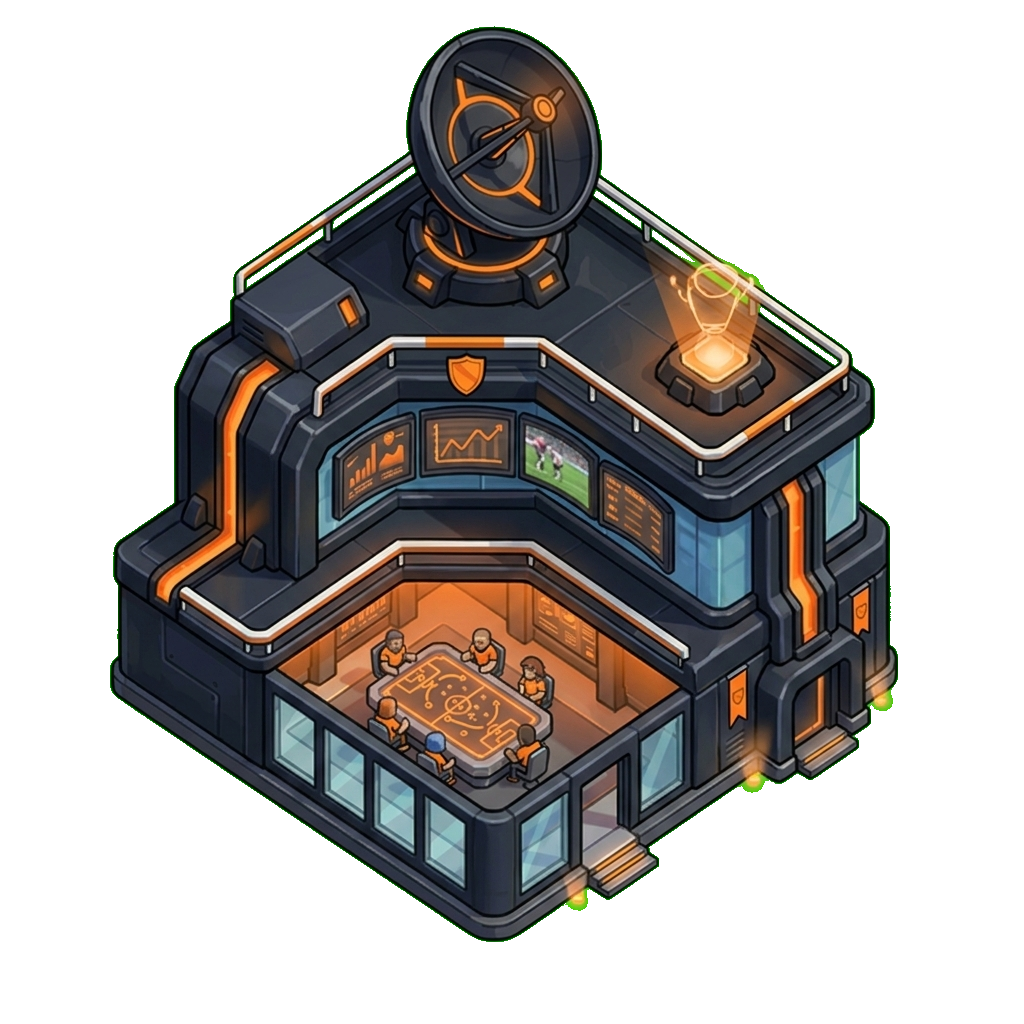
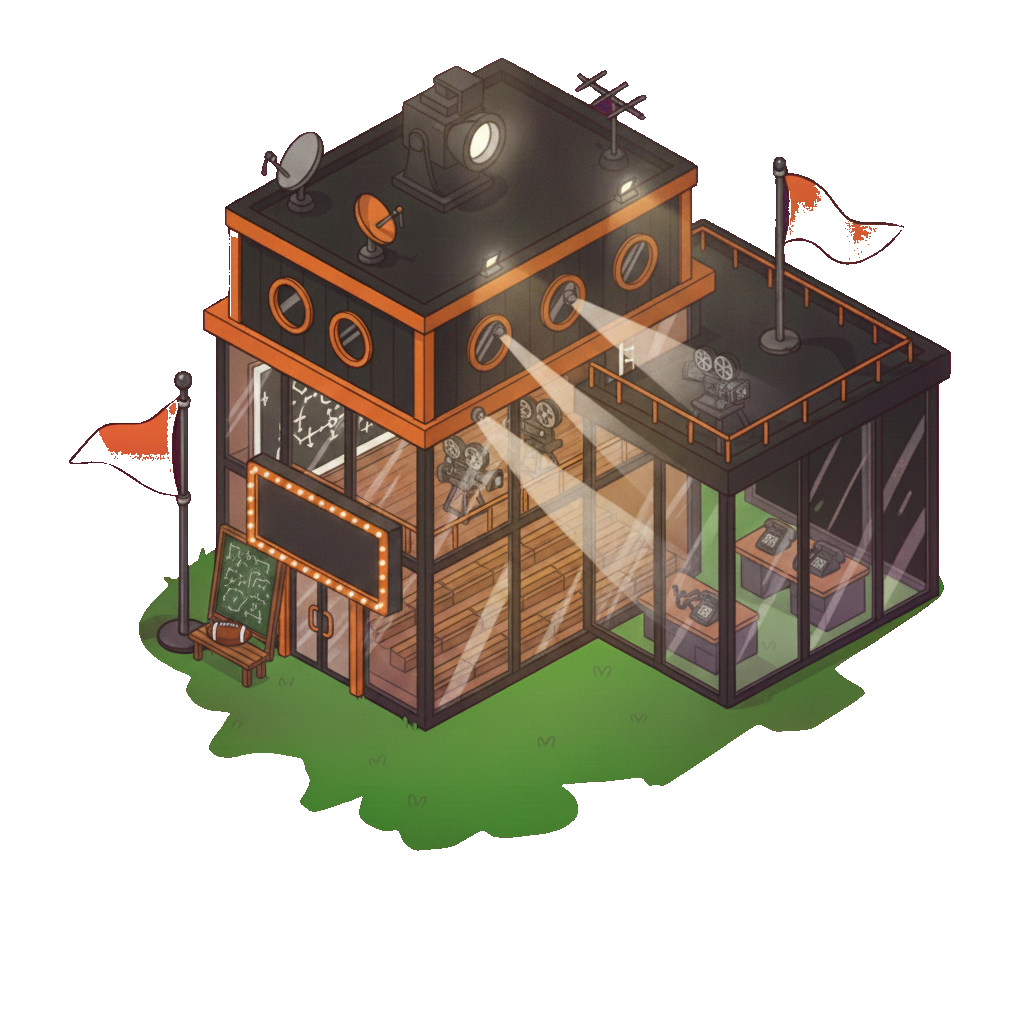
feat: FILM ROOM (renamed from War Room) — 3-tier chalk-talk-to-theater story
Asset refresh #3 + rename (Jumaane's call — 'I don't love war room'):
BUILDING_INFO name → 'Film Room', description now leads with breaking down
film. The art tells one story:
  T1 chalk talk: chalkboard on sawhorses under a lean-to, X's-and-O's play
     diagrams, bench + football, one film reel already waiting
  T3 the film room: cutaway screening room — projector beam on the play
     screen, reel shelf, blank-bulb marquee, the T1 chalkboard mounted on
     the outside wall
  T5 breakdown theater: multi-story cinema, crossing projector beams, film
     gear on two floors, rooftop projector lamp — the chalkboard framed by
     the doors like a founder's relic
Persistent motifs: the chalkboard, film reels, the projector beam, the
bench + football, orange pennants. T5 needed a massing break (chained refs
kept cloning T3's box) — borrowed the scouting HQ's 3-story structure as
the size reference and converted its purpose.

diff --git a/constants.ts b/constants.ts
@@ -138,7 +138,7 @@ export const INITIAL_BUILDINGS: BuildingInstance[] = [
 export const BUILDING_INFO = {
   [BuildingType.TRAINING_PITCH]: { name: 'Training Field', color: '#10b981', description: 'Increases XP gained from drills.' },
   [BuildingType.YOUTH_ACADEMY]: { name: 'Scouting Dept', color: '#3b82f6', description: 'Raises your roster cap so you can sign more players.' },
-  [BuildingType.TACTICS_ROOM]: { name: 'War Room', color: '#9333ea', description: 'Sharper game plan — boosts team readiness gained from drills.' },
+  [BuildingType.TACTICS_ROOM]: { name: 'Film Room', color: '#9333ea', description: 'Break down the film, sharpen the game plan — boosts team readiness gained from drills.' },
   [BuildingType.MEDICAL_CENTER]: { name: 'Rehab Center', color: '#ef4444', description: 'Increases Energy Regen rate.' },
   [BuildingType.STADIUM]: { name: 'Stadium', color: '#e2e8f0', description: 'Earns ticket revenue (Coins) over time. Upgrade to raise income and storage.' },
 };